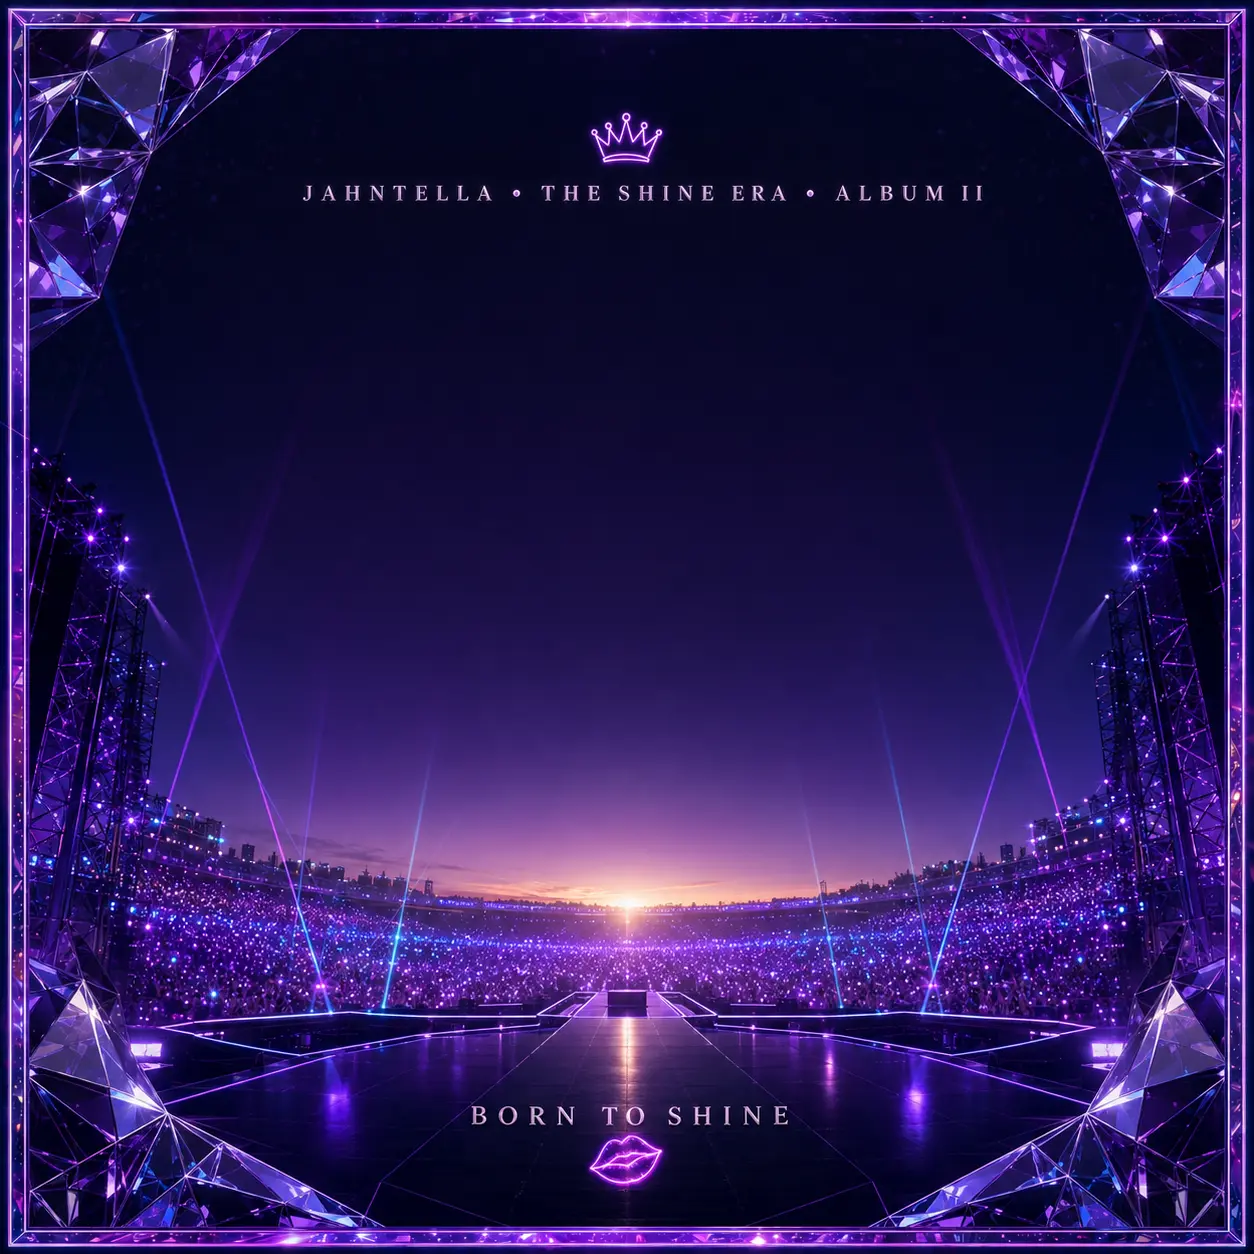
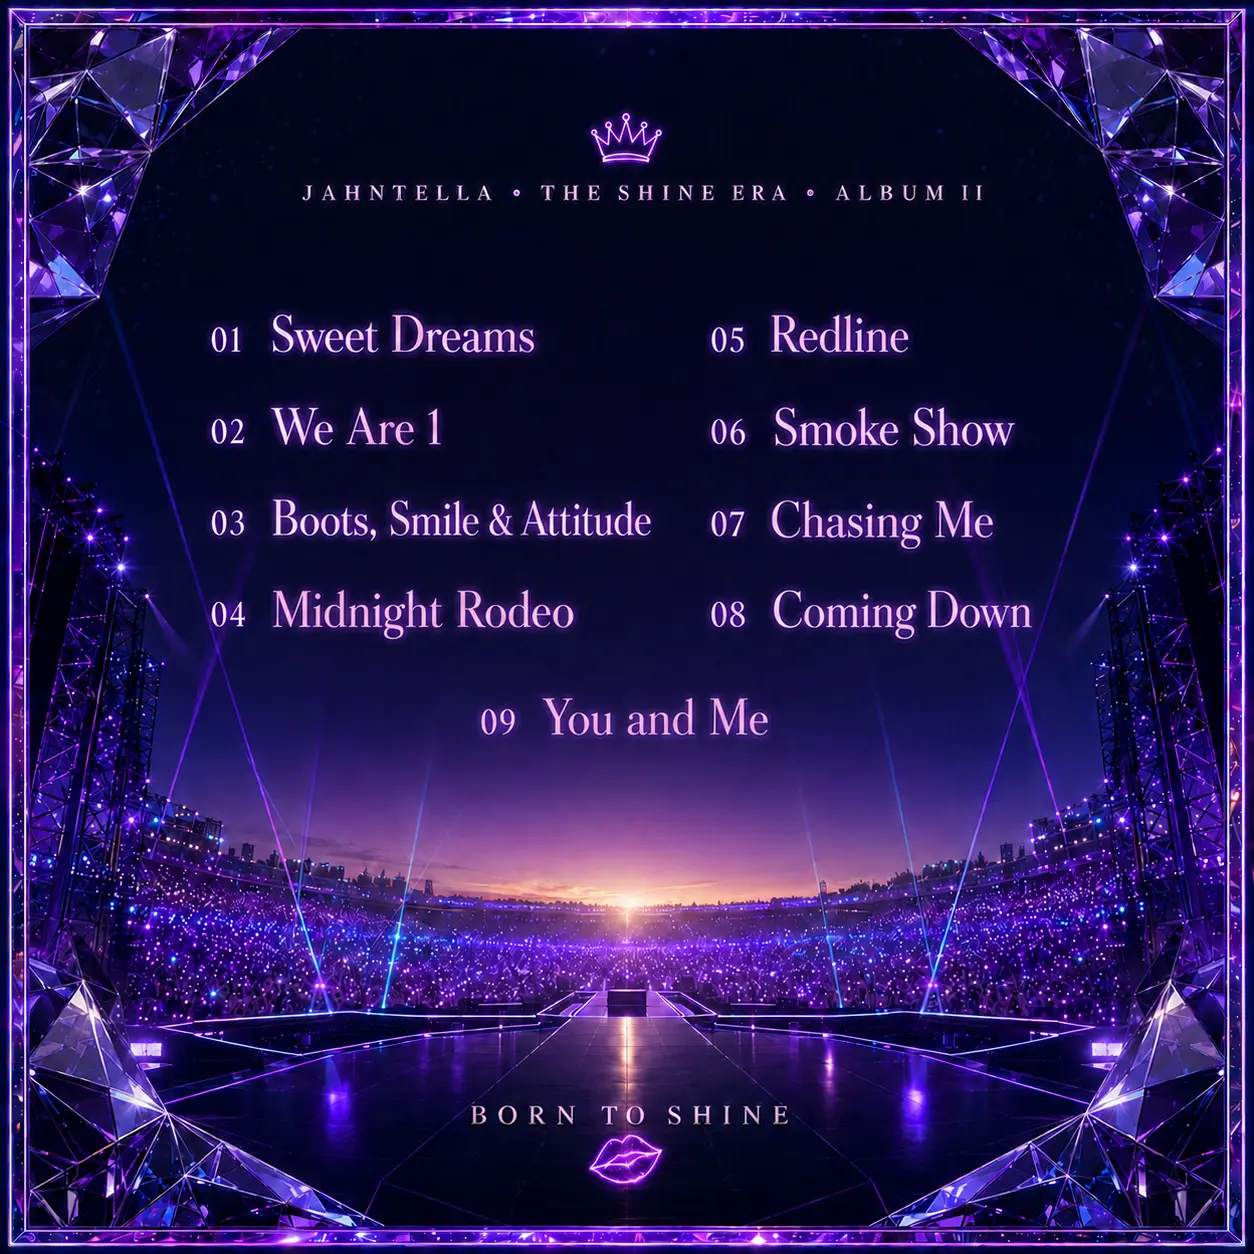
73.1

diff --git a/album2-preview-config.js b/album2-preview-config.js
@@ -63,13 +63,20 @@ window.JAHNTELLA_ALBUM2=Object.freeze({previewMode:false,plannedManualActivation
 
   const addShineEraThankYou=()=>{
     const shine=document.getElementById('shineEraSneakPeek');
-    if(!shine||document.getElementById('shineEraThankYou'))return;
-    const section=document.createElement('section');
-    section.id='shineEraThankYou';
-    section.className='exp58-thank-you reveal';
-    section.setAttribute('aria-label','A Shine Era thank-you from Jahntella to her Sweeties');
-    section.innerHTML='<div class="exp58-thank-you-shell"><figure class="exp58-thank-you-art"><img src="assets/album2/the-shine-era-thank-you.webp" alt="Jahntella thanks her Sweeties for believing in her and making The Shine Era shine" loading="lazy" decoding="async" width="1254" height="1254"></figure></div>';
-    shine.insertAdjacentElement('afterend',section);
+    if(!shine)return;
+    let section=document.getElementById('shineEraThankYou');
+    if(!section){
+      section=document.createElement('section');
+      section.id='shineEraThankYou';
+      section.className='exp58-thank-you reveal';
+      section.setAttribute('aria-label','A Shine Era thank-you from Jahntella to her Sweeties');
+      section.innerHTML='<div class="exp58-thank-you-shell"><figure class="exp58-thank-you-art"><img src="assets/album2/the-shine-era-thank-you.webp" alt="Jahntella thanks her Sweeties for believing in her and making The Shine Era shine" loading="lazy" decoding="async" width="1254" height="1254"></figure></div>';
+    }
+    const communityHeading=Array.from(document.querySelectorAll('h1,h2,h3,p,strong')).find(node=>/WELCOME TO THE COMMUNITY/i.test(node.textContent||''))
+      || Array.from(document.querySelectorAll('h1,h2,h3')).find(node=>/Be A\s*[“\"]?SWEETIE/i.test(node.textContent||''));
+    const communitySection=communityHeading?.closest('section');
+    if(communitySection?.parentNode)communitySection.parentNode.insertBefore(section,communitySection);
+    else shine.insertAdjacentElement('afterend',section);
   };
 
   const removeNonMusicGalleryPortrait=()=>{

diff --git a/EXP-73.1-PLACEMENT-AND-BACK-COVER-FIX.md b/EXP-73.1-PLACEMENT-AND-BACK-COVER-FIX.md
@@ -1,0 +1,9 @@
+# Jahntella EXP 73.1
+
+This patch sits on top of EXP 73.0.
+
+- Moves the Shine Era thank-you image below all nine visualizers and directly above “WELCOME TO THE COMMUNITY / Be A SWEETIE!”
+- Replaces the blank Shine Era back cover with the completed nine-track back cover.
+- Keeps all EXP 73.0 music, playlist, artwork, visualizer, aesthetics, and counter updates unchanged.
+
+Extract into the repository root and allow these two files to overwrite their existing versions.
